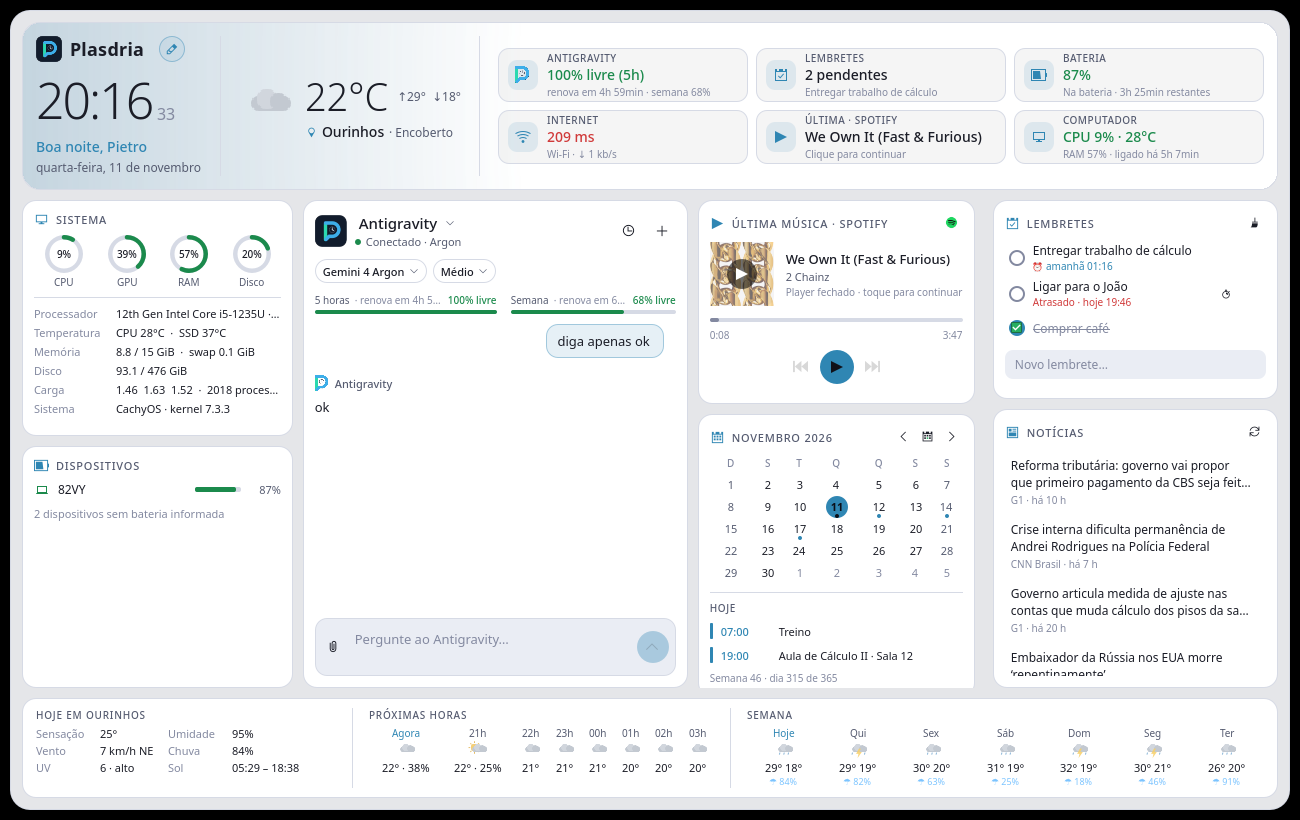
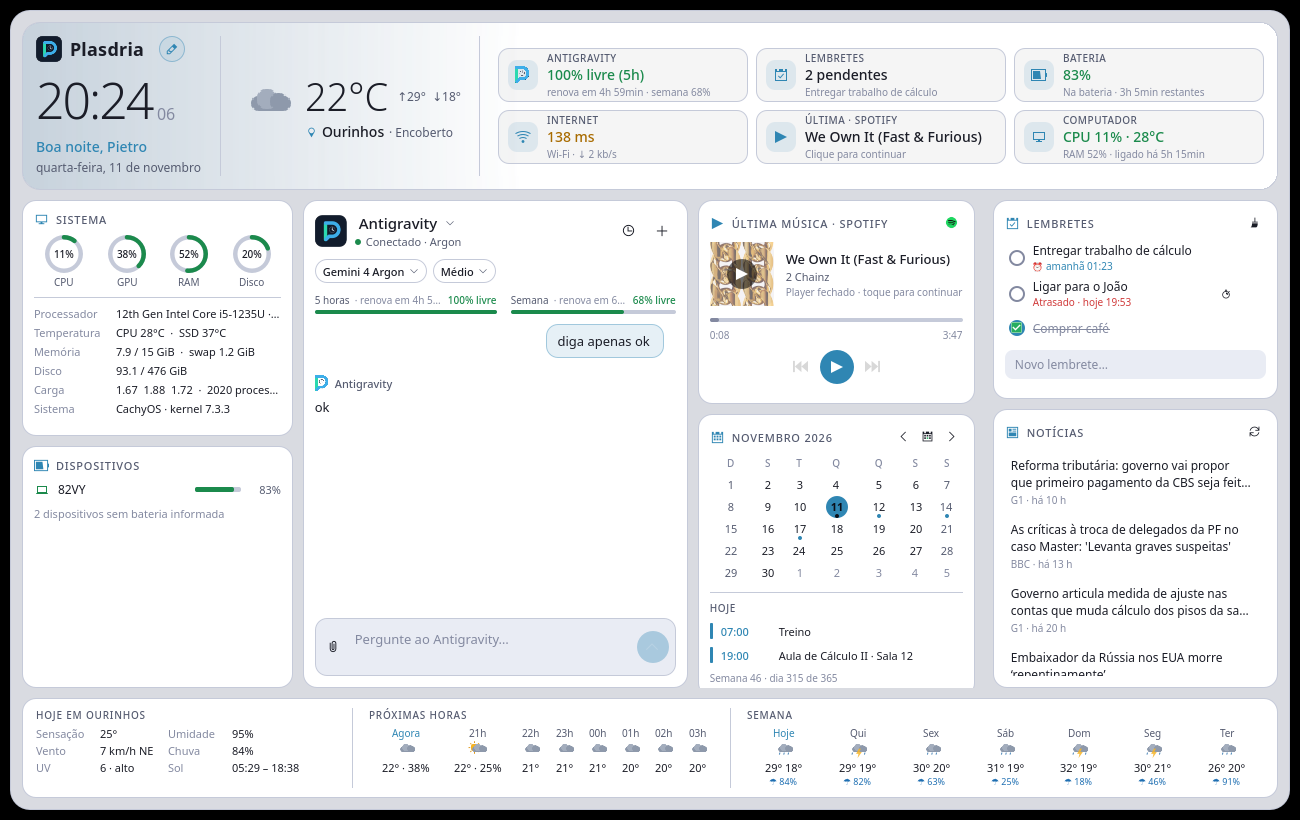
Cores do tema claro mais bem adaptadas (clima, Spotify, botões e fundo)

diff --git a/package/contents/ui/WeatherIcon.qml b/package/contents/ui/WeatherIcon.qml
@@ -3,6 +3,7 @@ import QtQuick.Shapes
 
 Item {
     id: root
+    required property var t
     property int code: 0
     property bool animated: true
     readonly property bool sunny: code >= 0 && code <= 2
@@ -19,18 +20,18 @@ Item {
             delegate: Item {
                 required property int index
                 anchors.fill: parent; rotation: index * 45
-                Rectangle { anchors.horizontalCenter: parent.horizontalCenter; y: 0; width: 2; height: 4; radius: 1; color: "#e5bd65" }
+                Rectangle { anchors.horizontalCenter: parent.horizontalCenter; y: 0; width: 2; height: 4; radius: 1; color: root.t.sunRay }
             }
         }
-        Rectangle { anchors.centerIn: parent; width: 15; height: 15; radius: 8; color: "#f4cf79" }
+        Rectangle { anchors.centerIn: parent; width: 15; height: 15; radius: 8; color: root.t.sunCore }
         RotationAnimator on rotation { from: 0; to: 360; duration: 28000; loops: Animation.Infinite; running: root.animated && root.visible && root.sunny }
     }
     Item {
         id: cloud; objectName: "weatherCloud"
         visible: root.cloudy; x: 6; y: 5; width: 34; height: 20
-        Rectangle { x: 2; y: 8; width: 31; height: 12; radius: 6; color: "#c3c9d1" }
-        Rectangle { x: 7; y: 3; width: 15; height: 15; radius: 8; color: "#d1d6dd" }
-        Rectangle { x: 17; y: 6; width: 13; height: 13; radius: 7; color: "#c3c9d1" }
+        Rectangle { x: 2; y: 8; width: 31; height: 12; radius: 6; color: root.t.cloudA }
+        Rectangle { x: 7; y: 3; width: 15; height: 15; radius: 8; color: root.t.cloudB }
+        Rectangle { x: 17; y: 6; width: 13; height: 13; radius: 7; color: root.t.cloudA }
         SequentialAnimation on x {
             running: root.animated && root.visible && root.cloudy; loops: Animation.Infinite
             NumberAnimation { from: 5; to: 8; duration: 2200; easing.type: Easing.InOutSine }
@@ -42,7 +43,7 @@ Item {
         delegate: Rectangle {
             required property int index
             x: root.code >= 95 ? cloud.x + 2 + index * 26 : 11 + index * 9; y: 26
-            width: root.snow ? 3 : 2; height: root.snow ? 3 : 5; radius: 1.5; color: "#83b2d6"; rotation: root.snow ? 0 : 15
+            width: root.snow ? 3 : 2; height: root.snow ? 3 : 5; radius: 1.5; color: root.t.rainDrop; rotation: root.snow ? 0 : 15
             SequentialAnimation on y {
                 running: root.animated && root.visible; loops: Animation.Infinite
                 PauseAnimation { duration: index * 170 }
@@ -59,7 +60,7 @@ Item {
         width: 12; height: 20; opacity: .85
         preferredRendererType: Shape.CurveRenderer
         ShapePath {
-            strokeWidth: 0; strokeColor: "transparent"; fillColor: "#f7ce65"
+            strokeWidth: 0; strokeColor: "transparent"; fillColor: root.t.sunCore
             PathSvg { path: "M6 0H10L7 7H12L3 20L5 11H0Z" }
         }
         SequentialAnimation on opacity {

diff --git a/package/contents/ui/WeatherFooter.qml b/package/contents/ui/WeatherFooter.qml
@@ -76,7 +76,7 @@ Rectangle {
                             id: hourCol; anchors.horizontalCenter: parent.horizontalCenter; spacing: 0
                             Text { text: modelData.now ? "Agora" : modelData.hour; color: modelData.now ? footer.t.accent : footer.t.muted; font.pixelSize: 10; Layout.alignment: Qt.AlignHCenter }
                             Item { Layout.preferredWidth: 22; Layout.preferredHeight: 20; Layout.alignment: Qt.AlignHCenter
-                                WeatherIcon { anchors.centerIn: parent; code: modelData.code; animated: false; scale: 0.48 } }
+                                WeatherIcon { t: footer.t; anchors.centerIn: parent; code: modelData.code; animated: false; scale: 0.48 } }
                             Text { text: modelData.temp + "°" + (modelData.rain > 20 ? " · " + modelData.rain + "%" : ""); color: footer.t.ink; font.pixelSize: 11; Layout.alignment: Qt.AlignHCenter }
                         }
                     }
@@ -104,9 +104,9 @@ Rectangle {
                             id: dayCol; anchors.horizontalCenter: parent.horizontalCenter; spacing: 0
                             Text { text: modelData.isToday ? "Hoje" : modelData.day.slice(0, 3); color: modelData.isToday ? footer.t.accent : footer.t.muted; font.pixelSize: 10; Layout.alignment: Qt.AlignHCenter }
                             Item { Layout.preferredWidth: 22; Layout.preferredHeight: 20; Layout.alignment: Qt.AlignHCenter
-                                WeatherIcon { anchors.centerIn: parent; code: modelData.code; animated: false; scale: 0.48 } }
+                                WeatherIcon { t: footer.t; anchors.centerIn: parent; code: modelData.code; animated: false; scale: 0.48 } }
                             Text { text: modelData.high + " " + modelData.low; color: footer.t.ink; font.pixelSize: 11; Layout.alignment: Qt.AlignHCenter }
-                            Text { text: modelData.rain > 0 ? "☂ " + modelData.rain + "%" : " "; color: "#7cc4ff"; font.pixelSize: 9; Layout.alignment: Qt.AlignHCenter }
+                            Text { text: modelData.rain > 0 ? "☂ " + modelData.rain + "%" : " "; color: footer.t.rainText; font.pixelSize: 9; Layout.alignment: Qt.AlignHCenter }
                         }
                     }
                 }

diff --git a/package/contents/ui/Theme.qml b/package/contents/ui/Theme.qml
@@ -12,10 +12,10 @@ QtObject {
     readonly property bool dark: mode === "light" ? false : mode === "system" ? systemDark : true
 
     readonly property color accent: dark ? accentBase : Qt.darker(accentBase, 1.3)
-    readonly property color background: dark ? Qt.rgba(0.075, 0.08, 0.105, backgroundOpacity) : Qt.rgba(0.955, 0.96, 0.972, backgroundOpacity)
+    readonly property color background: dark ? Qt.rgba(0.075, 0.08, 0.105, backgroundOpacity) : Qt.rgba(0.905, 0.915, 0.94, backgroundOpacity)
     readonly property color card: dark ? "#1b1d27" : "#ffffff"
-    readonly property color cardRaised: dark ? "#232634" : "#eaedf4"
-    readonly property color border: dark ? "#2c2f3d" : "#d6dae5"
+    readonly property color cardRaised: dark ? "#232634" : "#e9ecf4"
+    readonly property color border: dark ? "#2c2f3d" : "#c5cad9"
     readonly property color ink: dark ? "#eceef5" : "#1b1d27"
     readonly property color muted: dark ? "#9ba1b5" : "#555b70"
     readonly property color faint: dark ? "#646a80" : "#8389a0"
@@ -24,7 +24,15 @@ QtObject {
     readonly property color bad: dark ? "#ff6b6b" : "#d03a3a"
     // Véu sutil sobre o cartão (peças em destaque) e texto sobre cor de destaque cheia.
     readonly property color tint: dark ? Qt.rgba(1, 1, 1, 0.035) : Qt.rgba(0, 0, 0, 0.04)
-    readonly property color textOnAccent: "#101119"
+    readonly property color textOnAccent: dark ? "#101119" : "#ffffff"
+    // Clima e marca do Spotify: no claro as cores ficam mais escuras para aparecer sobre o branco.
+    readonly property color sunRay: dark ? "#e5bd65" : "#e09a1a"
+    readonly property color sunCore: dark ? "#f4cf79" : "#f5b324"
+    readonly property color cloudA: dark ? "#c3c9d1" : "#8e99ab"
+    readonly property color cloudB: dark ? "#d1d6dd" : "#a3adbd"
+    readonly property color rainDrop: dark ? "#83b2d6" : "#3f7fb5"
+    readonly property color rainText: dark ? "#7cc4ff" : "#1f6fb2"
+    readonly property color spotify: dark ? "#1ed760" : "#128a3e"
     readonly property color accentSoft: Qt.rgba(accent.r, accent.g, accent.b, dark ? 0.16 : 0.12)
     readonly property color accentLine: Qt.rgba(accent.r, accent.g, accent.b, 0.45)
 

diff --git a/package/contents/ui/HeroPanel.qml b/package/contents/ui/HeroPanel.qml
@@ -27,7 +27,7 @@ Rectangle {
     border.color: t.border
     gradient: Gradient {
         orientation: Gradient.Horizontal
-        GradientStop { position: 0; color: Qt.rgba(hero.t.accent.r, hero.t.accent.g, hero.t.accent.b, 0.18) }
+        GradientStop { position: 0; color: Qt.rgba(hero.t.accent.r, hero.t.accent.g, hero.t.accent.b, hero.t.dark ? 0.18 : 0.11) }
         GradientStop { position: 0.4; color: hero.t.card }
         GradientStop { position: 1; color: hero.t.card }
     }
@@ -132,7 +132,7 @@ Rectangle {
             Layout.alignment: hero.eff === "stacked" ? Qt.AlignLeft : Qt.AlignVCenter
             Item {
                 Layout.preferredWidth: 56; Layout.preferredHeight: 56
-                WeatherIcon { anchors.centerIn: parent; scale: 1.3; code: hero.w.code !== undefined ? hero.w.code : (hero.dash.forecast.length ? hero.dash.forecast[0].code : 0); animated: hero.t.animations }
+                WeatherIcon { t: hero.t; anchors.centerIn: parent; scale: 1.3; code: hero.w.code !== undefined ? hero.w.code : (hero.dash.forecast.length ? hero.dash.forecast[0].code : 0); animated: hero.t.animations }
             }
             ColumnLayout {
                 spacing: 0

diff --git a/package/contents/ui/MediaCard.qml b/package/contents/ui/MediaCard.qml
@@ -39,7 +39,7 @@ Card {
             RowLayout {
                 id: openRow; anchors.centerIn: parent; spacing: 6
                 Kirigami.Icon { source: "spotify"; implicitWidth: 16; implicitHeight: 16 }
-                Text { text: "Abrir o Spotify"; color: "#1ed760"; font.pixelSize: 12; font.weight: Font.DemiBold }
+                Text { text: "Abrir o Spotify"; color: card.t.spotify; font.pixelSize: 12; font.weight: Font.DemiBold }
             }
             HoverHandler { id: openHover; cursorShape: Qt.PointingHandCursor }
             TapHandler { onTapped: card.media.openSpotify() }
